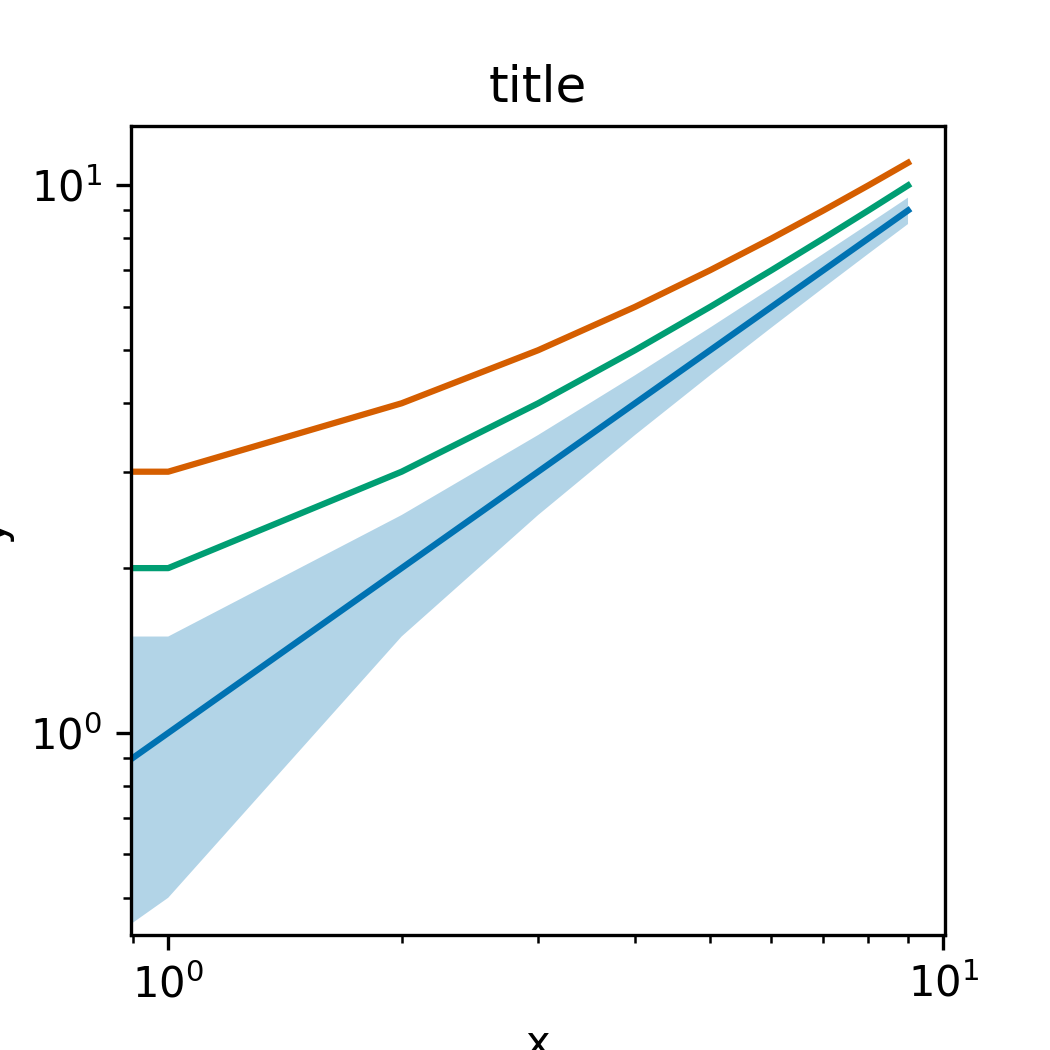
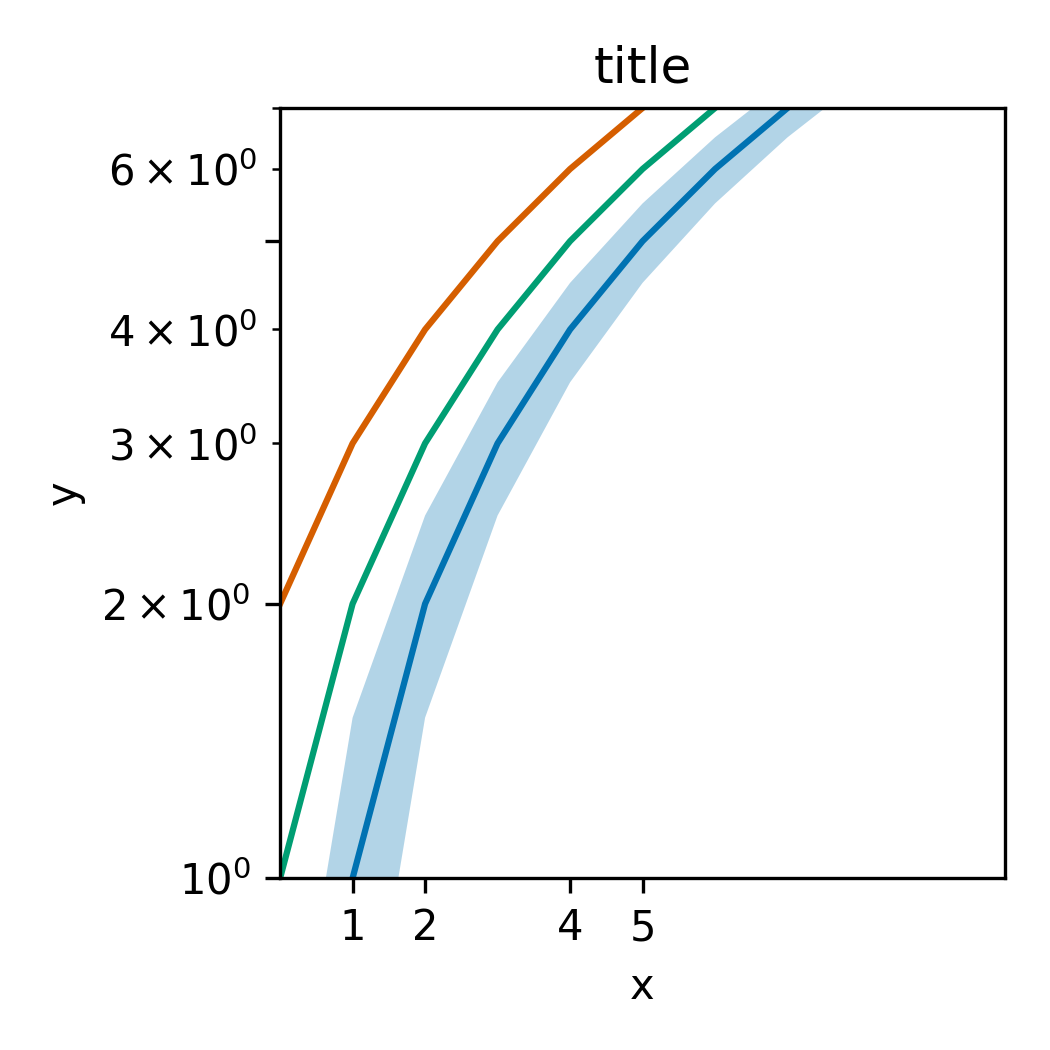
expanded on setting limits and ticks

diff --git a/plotter.py b/plotter.py
@@ -9,12 +9,19 @@ class NewPlot():
         plt.rcParams['figure.figsize'] = (3.5,3.5)
         plt.rcParams['figure.dpi'] = 300
         self.fig, self.ax = plt.subplots()
-    
-    def add_plot(self, x, y, log=False, ci_max = [], ci_min = []):
-        if log:
-            self.ax.loglog(x, y)
+
+    def set_logscale(self, x=False, y=False):
+        if x:
+            self.ax.set_xscale("log")
         else:
-            self.ax.plot(x, y)
+            self.ax.set_xscale("linear")
+        if y:
+            self.ax.set_yscale("log")
+        else:
+            self.ax.set_yscale("linear")
+    
+    def add_plot(self, x, y, ci_max = [], ci_min = []):
+        self.ax.plot(x, y)
         if not ((len(ci_max)==0) or (len(ci_min) == 0)):
             self.ax.fill_between(x, ci_min, ci_max, alpha=.3)
 
@@ -24,18 +31,35 @@ class NewPlot():
     def add_title(self, title):
         self.ax.set_title(f"{title}")
 
-    def add_labels(self, x, y):
+    def add_labels(self, x="", y=""):
         self.ax.set_xlabel(f"{x}")
         self.ax.set_ylabel(f"{y}")
 
+    def set_ticks(self, xticks=[], yticks=[]):
+        if not len(xticks) == 0:
+            self.ax.set_xticks(xticks)
+        if not len(yticks) == 0:
+            self.ax.set_yticks(yticks)
+
+    def set_limits(self, xlim= [], ylim=[]):
+        if not len(xlim) == 0:
+            self.ax.set_xlim(xlim)
+        if not len(ylim) == 0:
+            self.ax.set_ylim(ylim)
+
+
     def save(self, name):
+        plt.tight_layout()
         plt.savefig(f"figures/{name}")
 
 if __name__ == "__main__":
     plot = NewPlot()
-    plot.add_plot(b, b, log=True, ci_max=b+.5, ci_min=b-.5)
-    plot.add_plot(b, b+1, log=True)
-    plot.add_plot(b, b+2, log=True)
+    plot.set_logscale(False, True)
+    plot.add_plot(b, b,  ci_max=b+.5, ci_min=b-.5)
+    plot.add_plot(b, b+1)
+    plot.add_plot(b, b+2)
+    plot.set_limits([0,10], [1,7])
+    plot.set_ticks([1,2,4,5], yticks=[1,2,5])
     plot.add_title("title")
     plot.add_labels("x", "y")
     plot.save("test")
